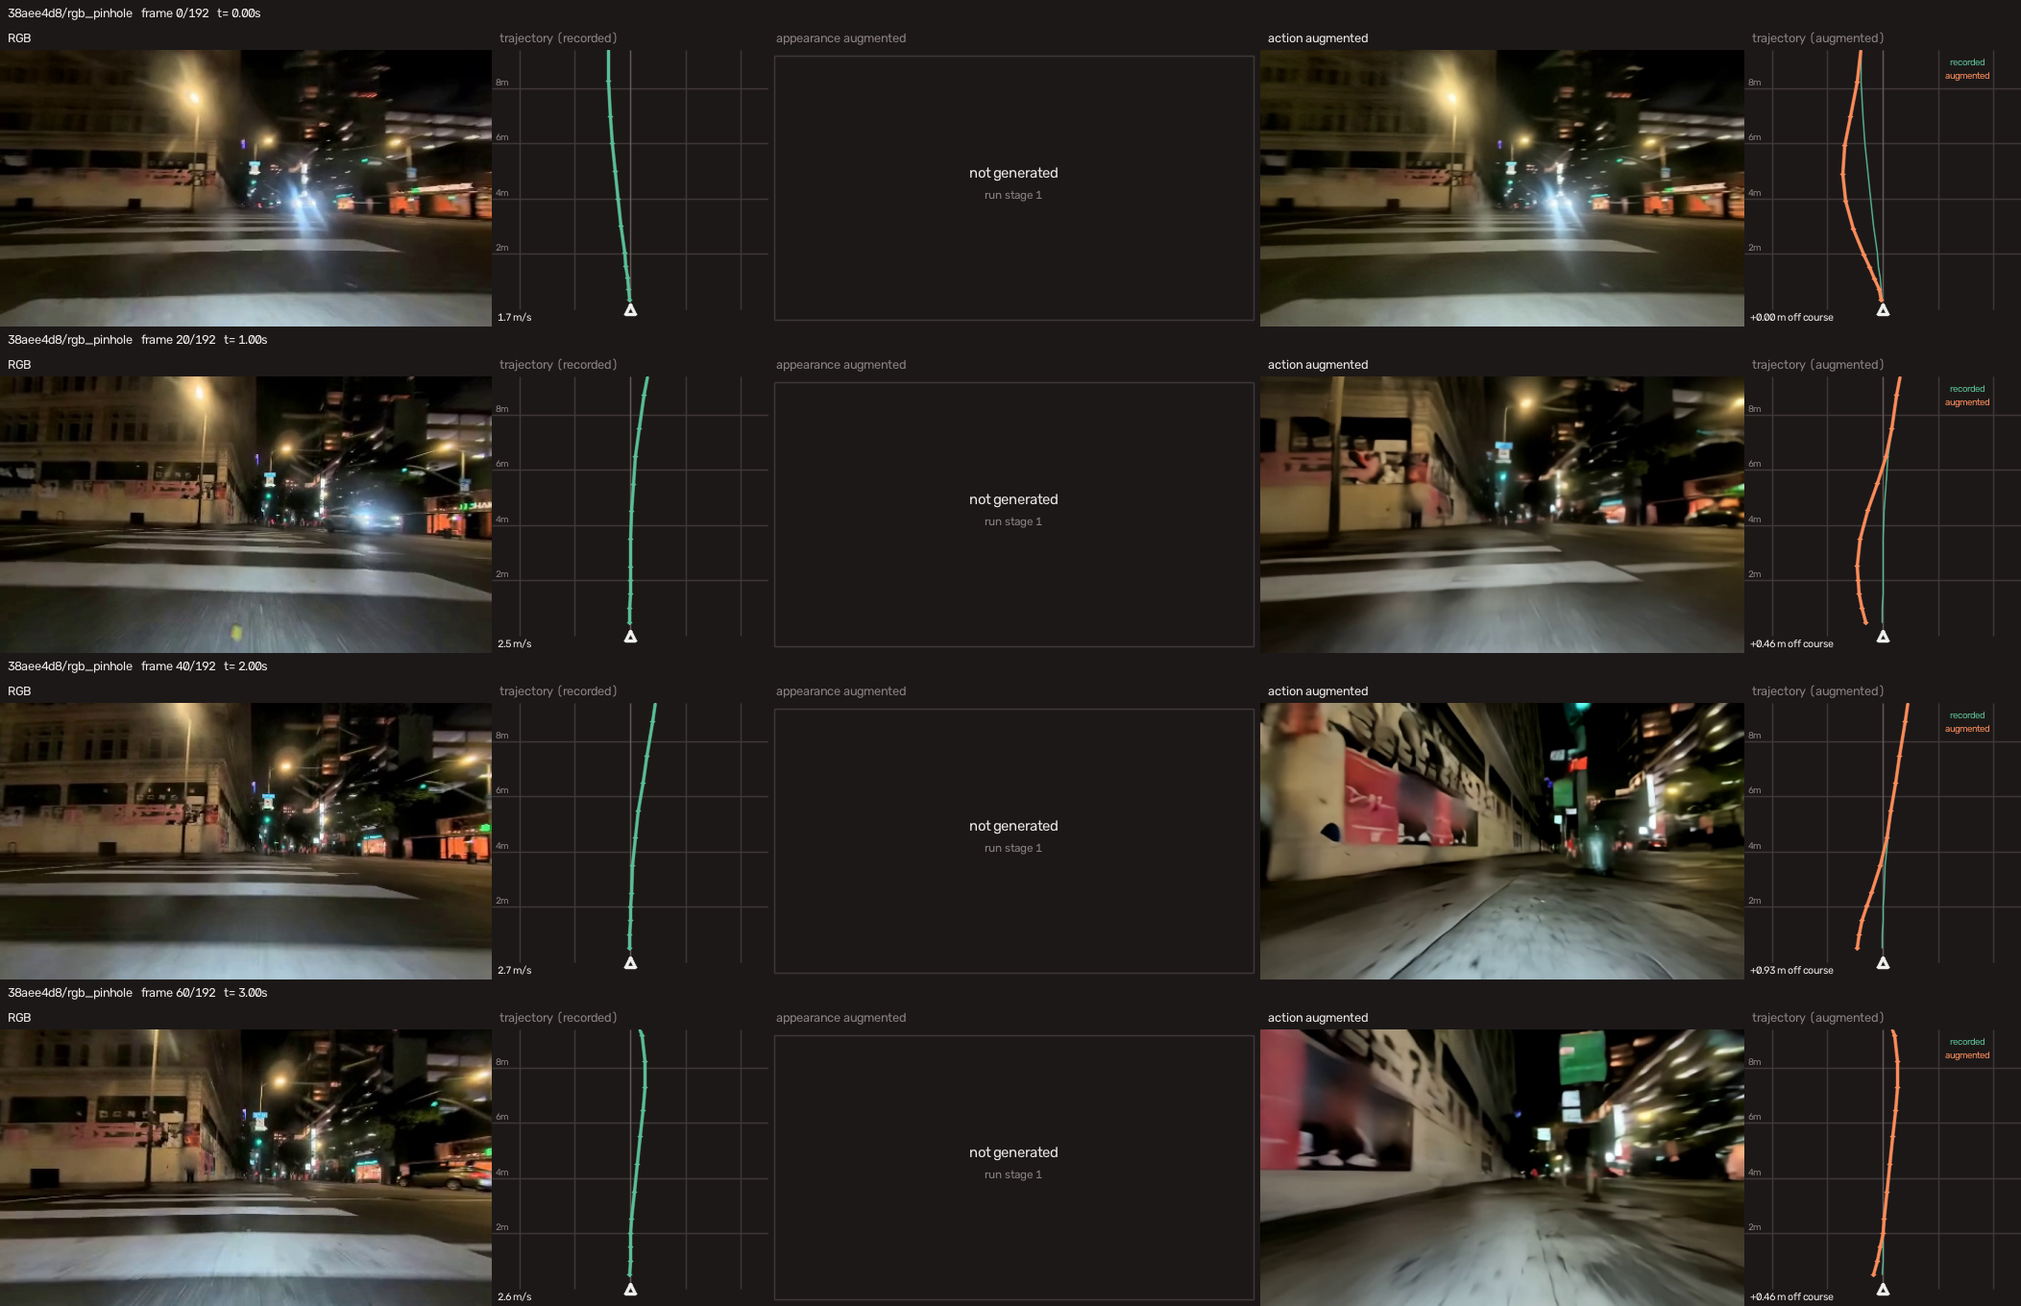
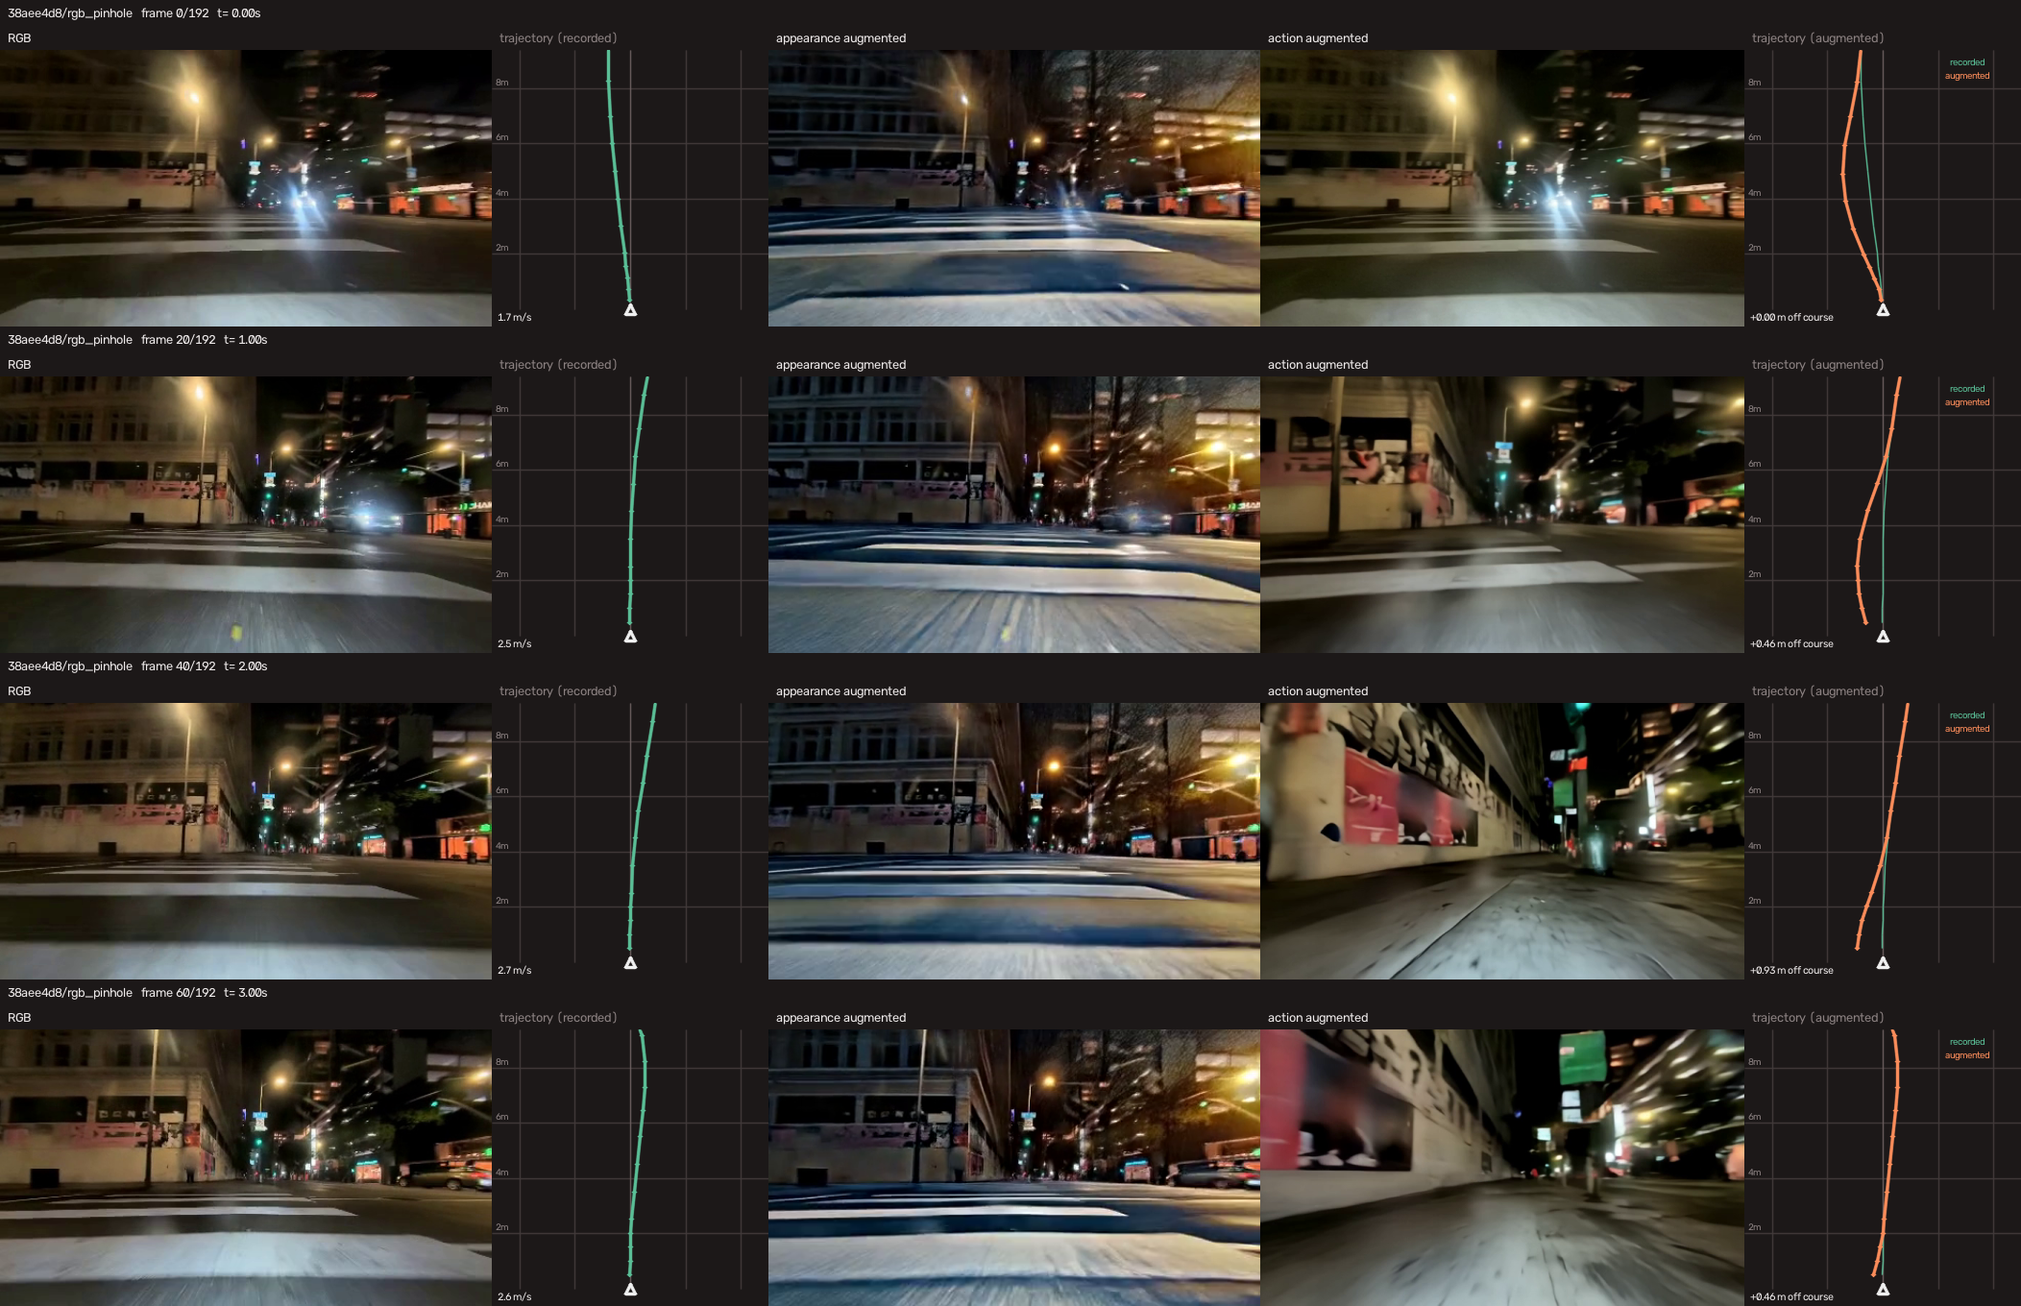
Run the appearance stage, and fit it on a 16 GB card
Stage 1 had never been run against the sample clips, so the relit panel of
the README figure was a placeholder. Running it turned up four problems.

- moviepy was missing from the appearance extra. Light-A-Video reads clips
  through moviepy.editor, which 2.x removed, so it needs an upper bound and
  not just the package.

- Wan's text encoder is UMT5-XXL: 10.58 GB, four times the transformer it
  feeds. With the relighting stack resident that alone accounted for the
  card. The prompt and negative prompt are identical for every clip and
  every segment, so it has exactly one job for the whole run -- encode
  once, keep the embeddings, free the weights.

  Order matters, and getting it wrong is silent. Done after
  enable_model_cpu_offload, accelerate has hooked the encoder and holds its
  own reference: clearing the attribute frees nothing and the weights ride
  onto the card for every call. Measured, the wrong order left 12.58 GB
  resident and the right order leaves 0.01 GB.

- The whole video pipeline was pinned to the GPU with .to(device), and the
  Wan VAE was handed all 81 frames in one encode. Now offloaded and tiled
  under --low_gpu_memory_mode. Note that --max_side is not the lever it
  looks like: the peak follows the frame count, and 480 and 320 both peaked
  at 12.9 GB.

- imageio.mimwrite pads to a multiple of 16, so a 480x270 clip came back
  480x272. The augmented clip is supposed to stay pixel-aligned with the
[…]

Changed region(s): [[0.3707, 0.0309, 0.6488, 1.0]]

diff --git a/mimic/appearance_augmentation/lav_randomize_video.py b/mimic/appearance_augmentation/lav_randomize_video.py
@@ -16,6 +16,7 @@ Usage:
         [--save_dir output_random] [--n_lights 5] [--fast] [--compile] [--seed 42]
 """
 
+import gc
 import os
 import argparse
 import glob
@@ -551,6 +552,10 @@ def load_pipeline(args) -> PipelineState:
     state.vdm_model = getattr(args, "vdm_model", "Wan-AI/Wan2.1-T2V-1.3B-Diffusers")
     state.ic_light_model = getattr(args, "ic_light_model", "./models/iclight_sd15_fc.safetensors")
     state.do_compile = getattr(args, "compile", False)
+    state.low_gpu_memory_mode = getattr(args, "low_gpu_memory_mode", False)
+    # Needed before the pipeline is offloaded so the prompt can be encoded while
+    # the text encoder is still free to move; callers may also set it later.
+    state.vdm_prompt = getattr(args, "vdm_prompt", None)
     state.num_for_model = WAN_MODEL_NUM_FRAMES
 
     print("Loading models …")
@@ -561,7 +566,25 @@ def load_pipeline(args) -> PipelineState:
         state.vdm_model, vae=vae_wan, torch_dtype=adopted_dtype,
     )
     pipe.scheduler = FlowMatchEulerDiscreteScheduler(shift=3.0)
-    pipe = pipe.to(device=device, dtype=adopted_dtype)
+    pipe = pipe.to(dtype=adopted_dtype)
+    if state.low_gpu_memory_mode:
+        # Encode the prompt and drop the text encoder *before* any offload hook
+        # exists. Once enable_model_cpu_offload has hooked it, accelerate holds
+        # its own reference and clearing the attribute frees nothing.
+        _cache_prompt_embeds(state, pipe, device, adopted_dtype)
+        # The relighting UNet and the video model are both resident for the
+        # whole run. Holding Wan on the card as well needs more than a 16 GB
+        # card has, so hand it back between calls.
+        pipe.enable_model_cpu_offload(device=device)
+        # The Wan VAE is a 3D causal-conv encoder, and prepare_latents hands it
+        # the whole 81-frame chunk at once. That single encode is the peak, and
+        # it barely moves with --max_side, so tiling it is what actually fits.
+        for method in ("enable_slicing", "enable_tiling"):
+            function = getattr(pipe.vae, method, None)
+            if callable(function):
+                function()
+    else:
+        pipe = pipe.to(device=device)
     pipe.vae.requires_grad_(False)
     pipe.transformer.requires_grad_(False)
     if state.do_compile and hasattr(torch, "compile"):
@@ -708,6 +731,48 @@ def load_pipeline(args) -> PipelineState:
     return state
 
 
+def _cache_prompt_embeds(state, pipe, device, dtype) -> None:
+    """Encode the video model's prompt once, then free its text encoder.
+
+    Wan's text encoder is UMT5-XXL: 10.58 GiB, four times the transformer it
+    feeds. The prompt and negative prompt are identical for every clip and every
+    segment, so it has exactly one job for the whole run.
+
+    Timing matters. Done here the GPU is still empty, so the encoder can be
+    moved on alone, used, and dropped. Done after ``enable_model_cpu_offload``
+    it would be hooked by accelerate, which keeps its own reference — clearing
+    the attribute then frees nothing, and the weights ride onto the card for
+    every call alongside the relighting stack.
+    """
+    prompt = getattr(state, "vdm_prompt", None)
+    if not prompt or getattr(pipe, "text_encoder", None) is None:
+        return
+
+    pipe.text_encoder.to(device)
+    try:
+        with torch.no_grad():
+            positive, negative = pipe.encode_prompt(
+                prompt=prompt,
+                negative_prompt=state.negative_prompt,
+                do_classifier_free_guidance=True,
+                device=device,
+                dtype=dtype,
+            )
+    finally:
+        pipe.text_encoder.to("cpu")
+
+    state.vdm_prompt_embeds = positive
+    state.vdm_negative_embeds = negative
+
+    pipe.text_encoder = None
+    if isinstance(getattr(pipe, "components", None), dict):
+        pipe.components.pop("text_encoder", None)
+    gc.collect()
+    torch.cuda.empty_cache()
+    print(f"  prompt encoded once; text encoder freed, "
+          f"{torch.cuda.memory_allocated() / 2**30:.2f} GiB resident", flush=True)
+
+
 def process_one_video(state: PipelineState, video_path: str, output_path: str) -> bool:
     """Process a single video and write the relit full video to output_path. Returns True on success."""
     total_frames, src_fps, orig_w, orig_h = get_video_metadata(video_path)
@@ -740,6 +805,9 @@ def process_one_video(state: PipelineState, video_path: str, output_path: str) -
     current_seg = -1
     seg_frames: list[np.ndarray] = []
 
+    prompt_embeds = getattr(state, "vdm_prompt_embeds", None)
+    negative_embeds = getattr(state, "vdm_negative_embeds", None)
+
     for seg_idx, chunk_start, relight_prompt, bg_source in jobs:
         if seg_idx != current_seg:
             current_seg = seg_idx
@@ -769,8 +837,10 @@ def process_one_video(state: PipelineState, video_path: str, output_path: str) -
                 relight_prompt=relight_prompt,
                 bg_source=bg_source,
                 video=video_list,
-                prompt=state.vdm_prompt,
-                negative_prompt=state.negative_prompt,
+                prompt=None if prompt_embeds is not None else state.vdm_prompt,
+                negative_prompt=None if prompt_embeds is not None else state.negative_prompt,
+                prompt_embeds=prompt_embeds,
+                negative_prompt_embeds=negative_embeds,
                 strength=state.strength,
                 guidance_scale=state.text_guide_scale,
                 num_inference_steps=num_inference_steps,
@@ -805,7 +875,10 @@ def process_one_video(state: PipelineState, video_path: str, output_path: str) -
     out_dir = os.path.dirname(output_path)
     if out_dir:
         os.makedirs(out_dir, exist_ok=True)
-    imageio.mimwrite(output_path, full_frames, fps=src_fps)
+    # macro_block_size defaults to 16, which silently pads 480x270 out to
+    # 480x272. The augmented clip is supposed to stay frame- and pixel-aligned
+    # with the original's action labels, so write the exact size.
+    imageio.mimwrite(output_path, full_frames, fps=src_fps, macro_block_size=1)
     return True
 
 

diff --git a/scripts/visualize_augmentation.py b/scripts/visualize_augmentation.py
@@ -293,6 +293,32 @@ def labelled_source(label_path: Path | None, clip: Path) -> Path:
     return candidate if candidate.is_file() else clip
 
 
+def window_offset(source: Path, clip: Path) -> int:
+    """Frame of ``clip`` that ``source``'s first frame corresponds to.
+
+    Stage 1 runs on the whole recording, but stage 2 may have windowed it. Both
+    outputs are then indexed by frame number, and those numbers mean different
+    moments unless the window's offset is added back — the relit panel would
+    otherwise show a point seconds away from the rest of the row.
+    """
+    if source == clip:
+        return 0
+    meta = source.parent / "meta.json"
+    if not meta.is_file():
+        return 0
+    try:
+        blob = json.loads(meta.read_text())
+    except (OSError, ValueError):
+        return 0
+    span = blob.get("source_frames")
+    if isinstance(span, list) and span and isinstance(span[0], int):
+        return span[0]
+    window = blob.get("window")
+    if isinstance(window, dict) and isinstance(window.get("start"), int):
+        return window["start"]
+    return 0
+
+
 def visualize_clip(clip: Path, args) -> dict:
     name = clip_label(clip)
     record = {"clip": name}
@@ -323,6 +349,9 @@ def visualize_clip(clip: Path, args) -> dict:
     record["appearance"] = str(appearance_path) if appearance_path else None
     record["action"] = str(action_path) if action_path else None
 
+    # Stage 1 runs on the full recording; the action label may describe only a
+    # window of it. Shift into the full clip's numbering for the relit panel.
+    frame_offset = window_offset(source, clip)
     appearance_frames = read_all_frames(appearance_path) if appearance_path else []
     action_frames = read_all_frames(action_path) if action_path else []
 
@@ -355,7 +384,7 @@ def visualize_clip(clip: Path, args) -> dict:
                    bev_panel(original_wp, note=f"{speed[i]:.1f} m/s"), False)]
 
         if appearance_frames:
-            j = min(i, len(appearance_frames) - 1)
+            j = min(i + frame_offset, len(appearance_frames) - 1)
             panels.append(("appearance augmented", fit_panel(appearance_frames[j]), True))
         else:
             panels.append(("appearance augmented",
@@ -380,10 +409,10 @@ def visualize_clip(clip: Path, args) -> dict:
             rec_future = future_in_frame(
                 original.poses, original.times, original.label_times, i, ref
             )
-            offset = lateral_offset_at(original.poses, augmented.poses, i)
+            deviation = lateral_offset_at(original.poses, augmented.poses, i)
             panels.append(("trajectory (augmented)",
                            bev_panel(aug_future, reference=rec_future,
-                                     note=f"{offset:+.2f} m off course"), False))
+                                     note=f"{deviation:+.2f} m off course"), False))
         else:
             panels.append(("trajectory (augmented)",
                            placeholder(PANEL_H, PANEL_H,

diff --git a/tests/test_stage_common.py b/tests/test_stage_common.py
@@ -89,3 +89,61 @@ def test_render_output_detects_a_finished_clip(tmp_path):
     folder.mkdir()
     (folder / "gen.mp4").write_bytes(b"")
     assert stage2.render_output(target).exists()
+
+
+# ---------------------------------------------------------------------------
+# Aligning a full-clip stage against a windowed one
+#
+# Stage 1 relights the whole recording; stage 2 may have rendered only a window
+# of it. Both outputs are indexed by frame number, so without adding the
+# window's offset back the relit panel shows a moment seconds from the rest.
+# ---------------------------------------------------------------------------
+
+
+def _viz():
+    import visualize_augmentation
+
+    return visualize_augmentation
+
+
+def test_window_offset_is_zero_for_an_unwindowed_clip(tmp_path):
+    clip = tmp_path / "rgb_pinhole.mp4"
+    assert _viz().window_offset(clip, clip) == 0
+
+
+def test_window_offset_reads_the_bundle_provenance(tmp_path):
+    import json
+
+    bundle = tmp_path / "_windows" / "38aee4d8"
+    bundle.mkdir(parents=True)
+    (bundle / "meta.json").write_text(json.dumps({
+        "fps": 20.0,
+        "window": {"start": 178, "length": 49, "stride": 4},
+        "source_frames": [178, 371],
+    }))
+    source = bundle / "clip.mp4"
+    clip = tmp_path / "38aee4d8" / "rgb_pinhole.mp4"
+    assert _viz().window_offset(source, clip) == 178
+
+
+def test_window_offset_falls_back_to_the_window_start(tmp_path):
+    import json
+
+    bundle = tmp_path / "_windows" / "09294dbb"
+    bundle.mkdir(parents=True)
+    (bundle / "meta.json").write_text(json.dumps({
+        "window": {"start": 152, "length": 49, "stride": 4},
+    }))
+    source = bundle / "clip.mp4"
+    clip = tmp_path / "09294dbb" / "rgb_pinhole.mp4"
+    assert _viz().window_offset(source, clip) == 152
+
+
+def test_window_offset_survives_a_missing_or_broken_meta(tmp_path):
+    bundle = tmp_path / "_windows" / "x"
+    bundle.mkdir(parents=True)
+    source = bundle / "clip.mp4"
+    clip = tmp_path / "x" / "rgb_pinhole.mp4"
+    assert _viz().window_offset(source, clip) == 0
+    (bundle / "meta.json").write_text("{not json")
+    assert _viz().window_offset(source, clip) == 0

diff --git a/scripts/stage_1_appearance_augmentation.py b/scripts/stage_1_appearance_augmentation.py
@@ -102,6 +102,10 @@ def parse_args(argv=None):
     sel.add_argument("--seed", type=int, default=42)
 
     q = parser.add_argument_group("quality / speed")
+    q.add_argument("--low_gpu_memory_mode", action="store_true",
+                   help="Offload the video model between calls. The relighting "
+                        "UNet stays resident, so holding both needs more than a "
+                        "16 GB card has.")
     q.add_argument("--fast", action="store_true", help="Lower resolution and fewer steps.")
     q.add_argument("--max_side", type=int, default=None)
     q.add_argument("--strength", type=float, default=None)
@@ -182,6 +186,8 @@ def main(argv=None) -> int:
         num_step=args.num_step if args.num_step is not None else (6 if args.fast else 10),
         fg_preserve=args.fg_preserve, detail_strength=args.detail_strength,
         no_yolo=args.no_yolo,
+        low_gpu_memory_mode=args.low_gpu_memory_mode,
+        vdm_prompt=prompt_store.VDM_PROMPT,
         models_dir=Path(args.models_dir) if args.models_dir else None,
     )
     state = lav.load_pipeline(pipeline_args)

diff --git a/mimic/appearance_augmentation/augment_video.py b/mimic/appearance_augmentation/augment_video.py
@@ -112,6 +112,8 @@ def build_pipeline_args(
     no_yolo: bool = False,
     upscaler: str = "none",
     compile_vdm: bool = False,
+    low_gpu_memory_mode: bool = False,
+    vdm_prompt: str | None = None,
     models_dir: Path | None = None,
 ) -> SimpleNamespace:
     """Build the config object consumed by ``lav_randomize_video.load_pipeline``.
@@ -130,6 +132,8 @@ def build_pipeline_args(
         gamma=gamma,
         fg_preserve=0.0 if no_yolo else fg_preserve,
         detail_strength=detail_strength,
+        low_gpu_memory_mode=low_gpu_memory_mode,
+        vdm_prompt=vdm_prompt,
         no_yolo=no_yolo,
         yolo_model=str(models / "yolov8n.pt"),
         upscaler=upscaler,

diff --git a/mimic/appearance_augmentation/README.md b/mimic/appearance_augmentation/README.md
@@ -170,3 +170,26 @@ bash mimic/appearance_augmentation/infer_all.sh <input_dir> <output_dir>
 | `--detail_strength` | 0.7 | High-frequency detail carried over from the original |
 | `--no_yolo` | off | Skip person detection; faster, relights the full frame |
 | `--fast` | off | max_side 512, strength 0.25, 6 steps |
+
+## Running on a 16 GB card
+
+Two models are live at once — the IC-Light relighting stack stays resident while
+the video model runs — so the default path does not fit. `--low_gpu_memory_mode`
+makes it fit, and does three things:
+
+| What | Saves | Why |
+|---|---|---|
+| Encode the prompt once, free the text encoder | ~10.6 GB | Wan's text encoder is UMT5-XXL, four times the size of the transformer it feeds. The prompt is identical for every clip and segment, so it has one job for the whole run. |
+| `enable_model_cpu_offload` on the video model | ~2.6 GB | The relighting stack needs the card for the whole run. |
+| VAE slicing and tiling | — | `prepare_latents` hands the 3D causal-conv encoder all 81 frames at once. |
+
+Order matters for the first one. The encoder has to be used and dropped *before*
+`enable_model_cpu_offload` installs accelerate's hooks: once hooked, accelerate
+holds its own reference, clearing the attribute frees nothing, and the weights
+ride onto the card for every call. Measured on a 16 GB card, doing it in the
+right order leaves 0.01 GB resident where the wrong order left 12.58 GB.
+
+Lowering `--max_side` does *not* help here, which is worth knowing before
+reaching for it: the peak is set by the 81-frame chunk, not the resolution, and
+480 and 320 both peaked at 12.9 GB.
+

diff --git a/README.md b/README.md
@@ -192,9 +192,12 @@ in the last panel, and both are re-expressed against the *recorded* pose —
 otherwise the two labels' differing ego frames turn a 15° heading difference
 into metres of apparent deviation across a 12 m lookahead.
 
-The middle panel is a placeholder because stage 1 has not been run against these
-clips; the script draws it rather than dropping the column, so the layout stays
-fixed and what is missing is obvious.
+The middle panel is stage 1's output for the same moment: the scene relit as an
+icy, snow-lit street while the geometry, frame count and resolution stay
+untouched, so it remains aligned with the original's action labels. Stage 1 runs
+on the whole recording and stage 2 on a window of it, so the visualizer shifts
+the relit panel by the window's offset — otherwise it would show a moment nine
+seconds from the rest of the row.
 
 This clip is parked for its first eight seconds, so stage 2 moved the render
 window onto the maneuver and wrote the bundle under `out/action/_windows/`. The
@@ -204,7 +207,8 @@ Regenerate the figure with:
 
 ```bash
 uv run python scripts/visualize_augmentation.py \
-    --input assets/clips/38aee4d8 --action_dir out/action \
+    --input assets/clips/38aee4d8 \
+    --action_dir out/action --appearance_dir out/appearance \
     --output assets/examples \
     --frames 61 --frame_stride 20 --contact_sheet --sheet_rows 4
 
